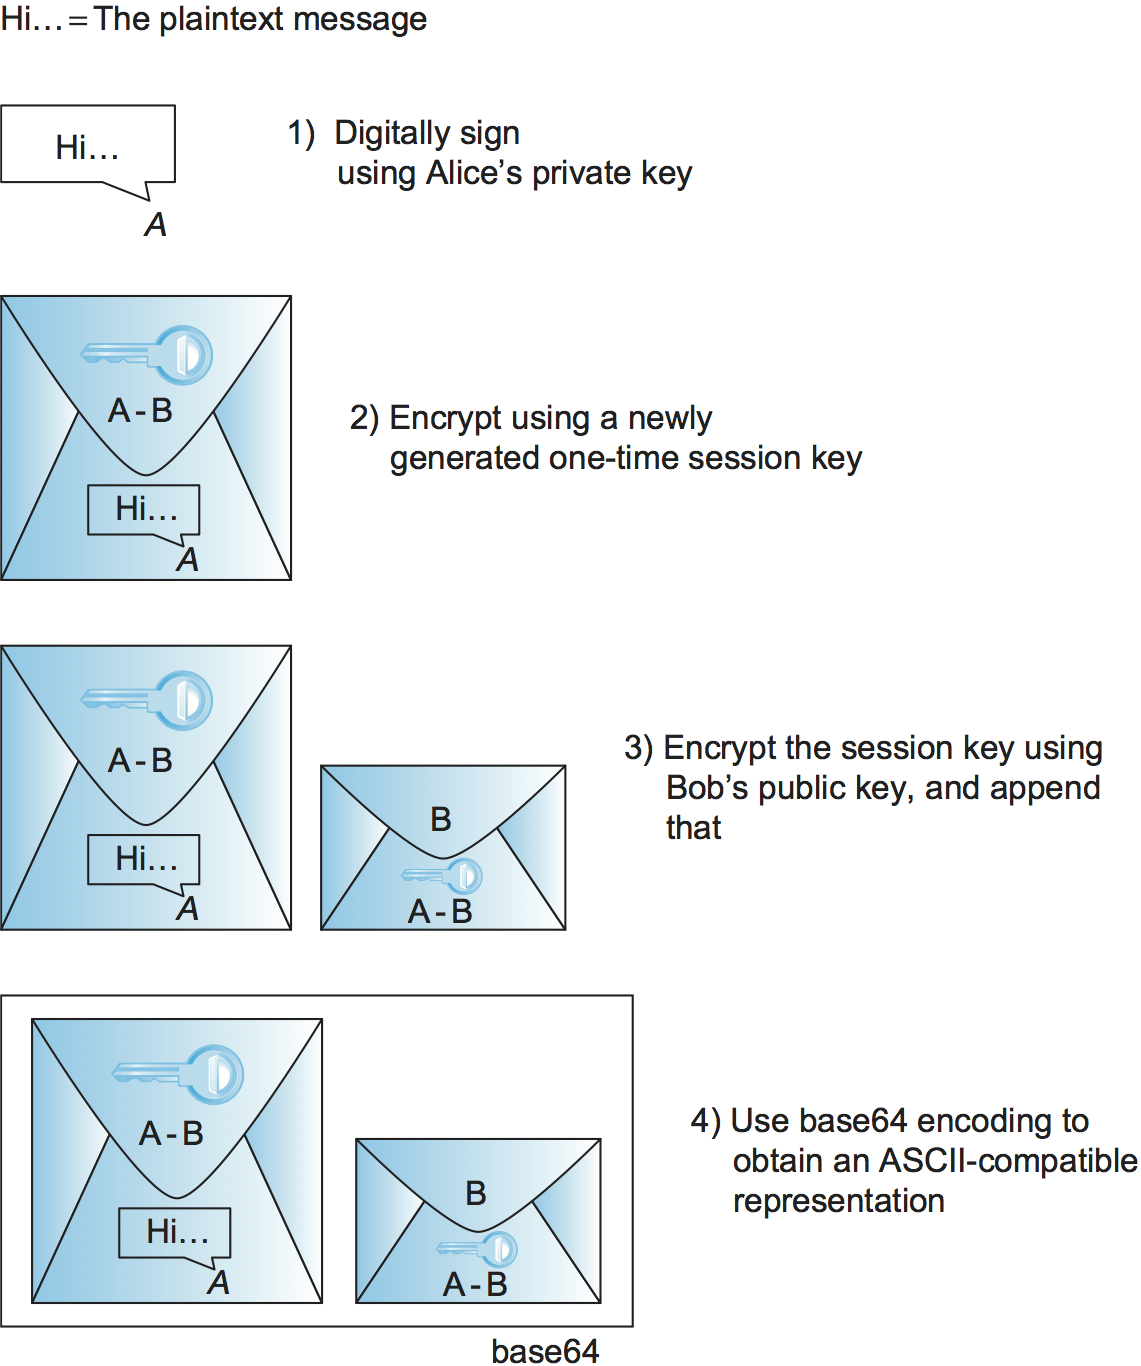
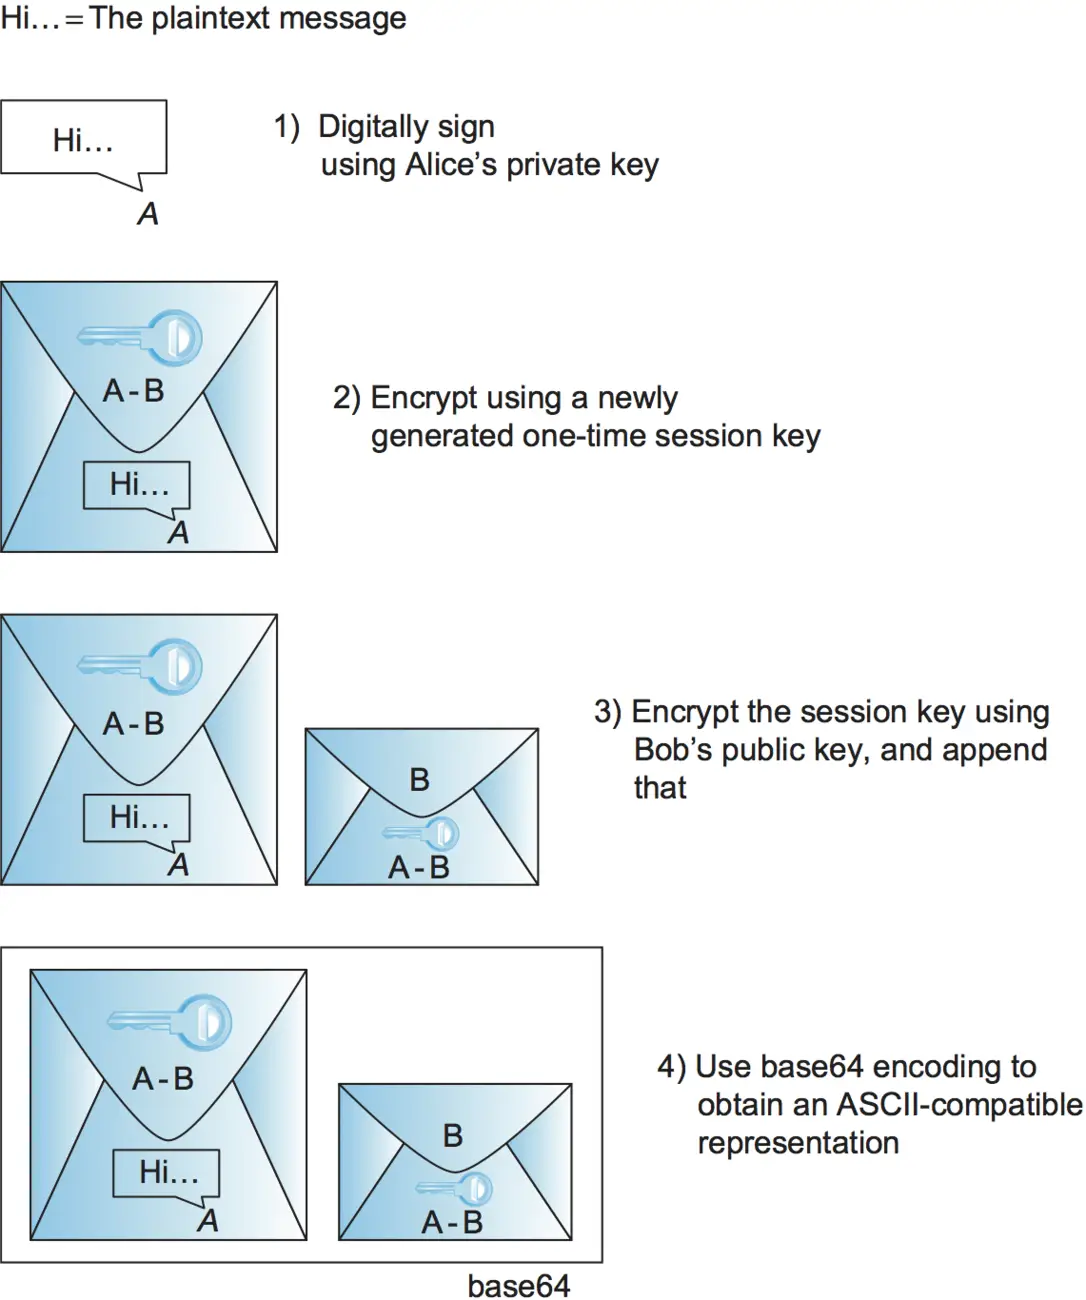
fix(content/network-security): restore figure 15 and drop the spliced sentence
The §7.3 figure list lost one entry entirely. The upstream HTML has

    <figure class="align-center" id="id3"><span id="fig-pgpmessage"></span>
    <a class="reference internal image-reference"
       href="_images/f08-13-9780123850591.png"><img …></a>
    <figcaption>Figure 15. PGP's steps to prepare a message …</figcaption>

but the import kept only the Arabic caption and the prose reference, so both
`#id3` and `#fig-pgpmessage` were dead links. The image was already cached at
static/images/network-security/systems-0-f08-13-9780123850591.webp; it now
carries the caption as its alt text, the same shape figure 16 uses.

That file carried a .webp name over PNG bytes, which the audit now reports as
a mismatched MIME. Re-encoded with the same pipeline the HTML imports use
(magick convert -auto-orient -resize '1300x1300>' -strip -quality 70):
527438 → 47184 bytes at 1086x1300. The other 245 mismatched names in
static/images are the open-data-structures formula PNGs that became KaTeX and
are no longer referenced by any section, so none of them can fail the audit.

Also in the same section:

- The converter emitted the PNG click-through as a markdown link to a
  footnote id, leaving figure 16 as `[![…](…){#id4 …}](#id2)` — a wrapper
  around an image with no link target. Dropped.
- `establish connectivity among` was spliced into a duplicated Arabic
  sentence, giving two versions of the same line. Upstream §7.4 holds it as a
[…]

Changed region(s): [[0.4254, 0.9846, 0.5166, 1.0], [0.7597, 0.8615, 0.7901, 0.8923], [0.4254, 0.0923, 0.4558, 0.1231]]

diff --git a/content/network-security/systems--index.md b/content/network-security/systems--index.md
@@ -48,6 +48,8 @@ source: https://security.systemsapproach.org/systems.html
 
 وتوفّر الشهادات روابطً (bindings) بين عناوين البريد الإلكتروني والمفاتيح العامة.
 
+![الشكل 15. خطوات PGP في تحضير رسالة ليُرسلها أليس إلى بوب بريديًا.](/images/network-security/systems-0-f08-13-9780123850591.webp){#id3 #fig-pgpmessage}
+
 الشكل 15. خطوات PGP في تحضير رسالة ليُرسلها أليس إلى بوب بريديًا.[↗](#id3)
 
 ولننظر المثال التالي على استخدام PGP لتوفير مصادقة المُرسِل والسرّية معًا.
@@ -194,7 +196,7 @@ source: https://security.systemsapproach.org/systems.html
 
 وملفّات هذه يُشفَّر عادةً بعبارة مرورٍ سرّية (secret passphrase) للحماية من احتمال اختراق المفتاح الخاص على يد مهاجمٍ يحصل على الملف.
 
-[![الشكل 16. استعمال إعادة توجيه منافذ SSH لتأمين تطبيقاتٍ أخرى قائمة على TCP.](/images/network-security/systems-1-f08-14-9780123850591.webp){#id4 #fig-ssh-tunnel}](#id2)
+![الشكل 16. استعمال إعادة توجيه منافذ SSH لتأمين تطبيقاتٍ أخرى قائمة على TCP.](/images/network-security/systems-1-f08-14-9780123850591.webp){#id4 #fig-ssh-tunnel}
 
 الشكل 16. استعمال إعادة توجيه منافذ SSH لتأمين تطبيقاتٍ أخرى قائمة على TCP.[↗](#id4)
 
@@ -332,11 +334,10 @@ source: https://security.systemsapproach.org/systems.html
 
 ## 7.4 الشبكات الخاصة الافتراضية {#virtual-private-networks}
 
-يمكن بناء شبكةٍ خاصة افتراضية (VPN) باستخدام مجموعةٍ واسعة ومتنوّعة من التقنيات المختلفة، لكنّ أيّ VPN تشترطestablish.ConnectivityAmong مجموعةٍ من نقاط النهاية.
 يمكن بناء شبكةٍ خاصة افتراضية (VPN) باستخدام مجموعةٍ واسعة ومتنوّعة من التقنيات المختلفة، لكنّ أيّ VPN تتطلّب إنشاء اتصال بين مجموعةٍ من نقاط النهاية.
 ويجب أن توفّر الاتصالات هذه قدرًا من الخصوصية للجهات (principals) التي تتواصل بين نقاط النهاية تلك.
 
-وإضافةً إلى ذلك، لكي تستحقّ صفة *الخاصة* الافتراضية، تخلق VPN وهمًا بأنها مخصَّصة لمجموعةٍ من المستخدمين، وإنّماwere البنية التحتية في الواقع مشتركةٌ على نطاقٍ أوسع.
+وإضافةً إلى ذلك، لكي تستحقّ صفة *الخاصة* الافتراضية، تخلق VPN وهمًا بأنها مخصَّصة لمجموعةٍ من المستخدمين، وإنّما البنية التحتية في الواقع مشتركةٌ على نطاقٍ أوسع.
 
 وعليًا، يعني هذا أنّ VPN تُبنى دائمًا تقريبًا بوصفها نوعًا من الطبقات (overlay) فوق بنيةٍ تحتيةٍ مشتركة.
 
